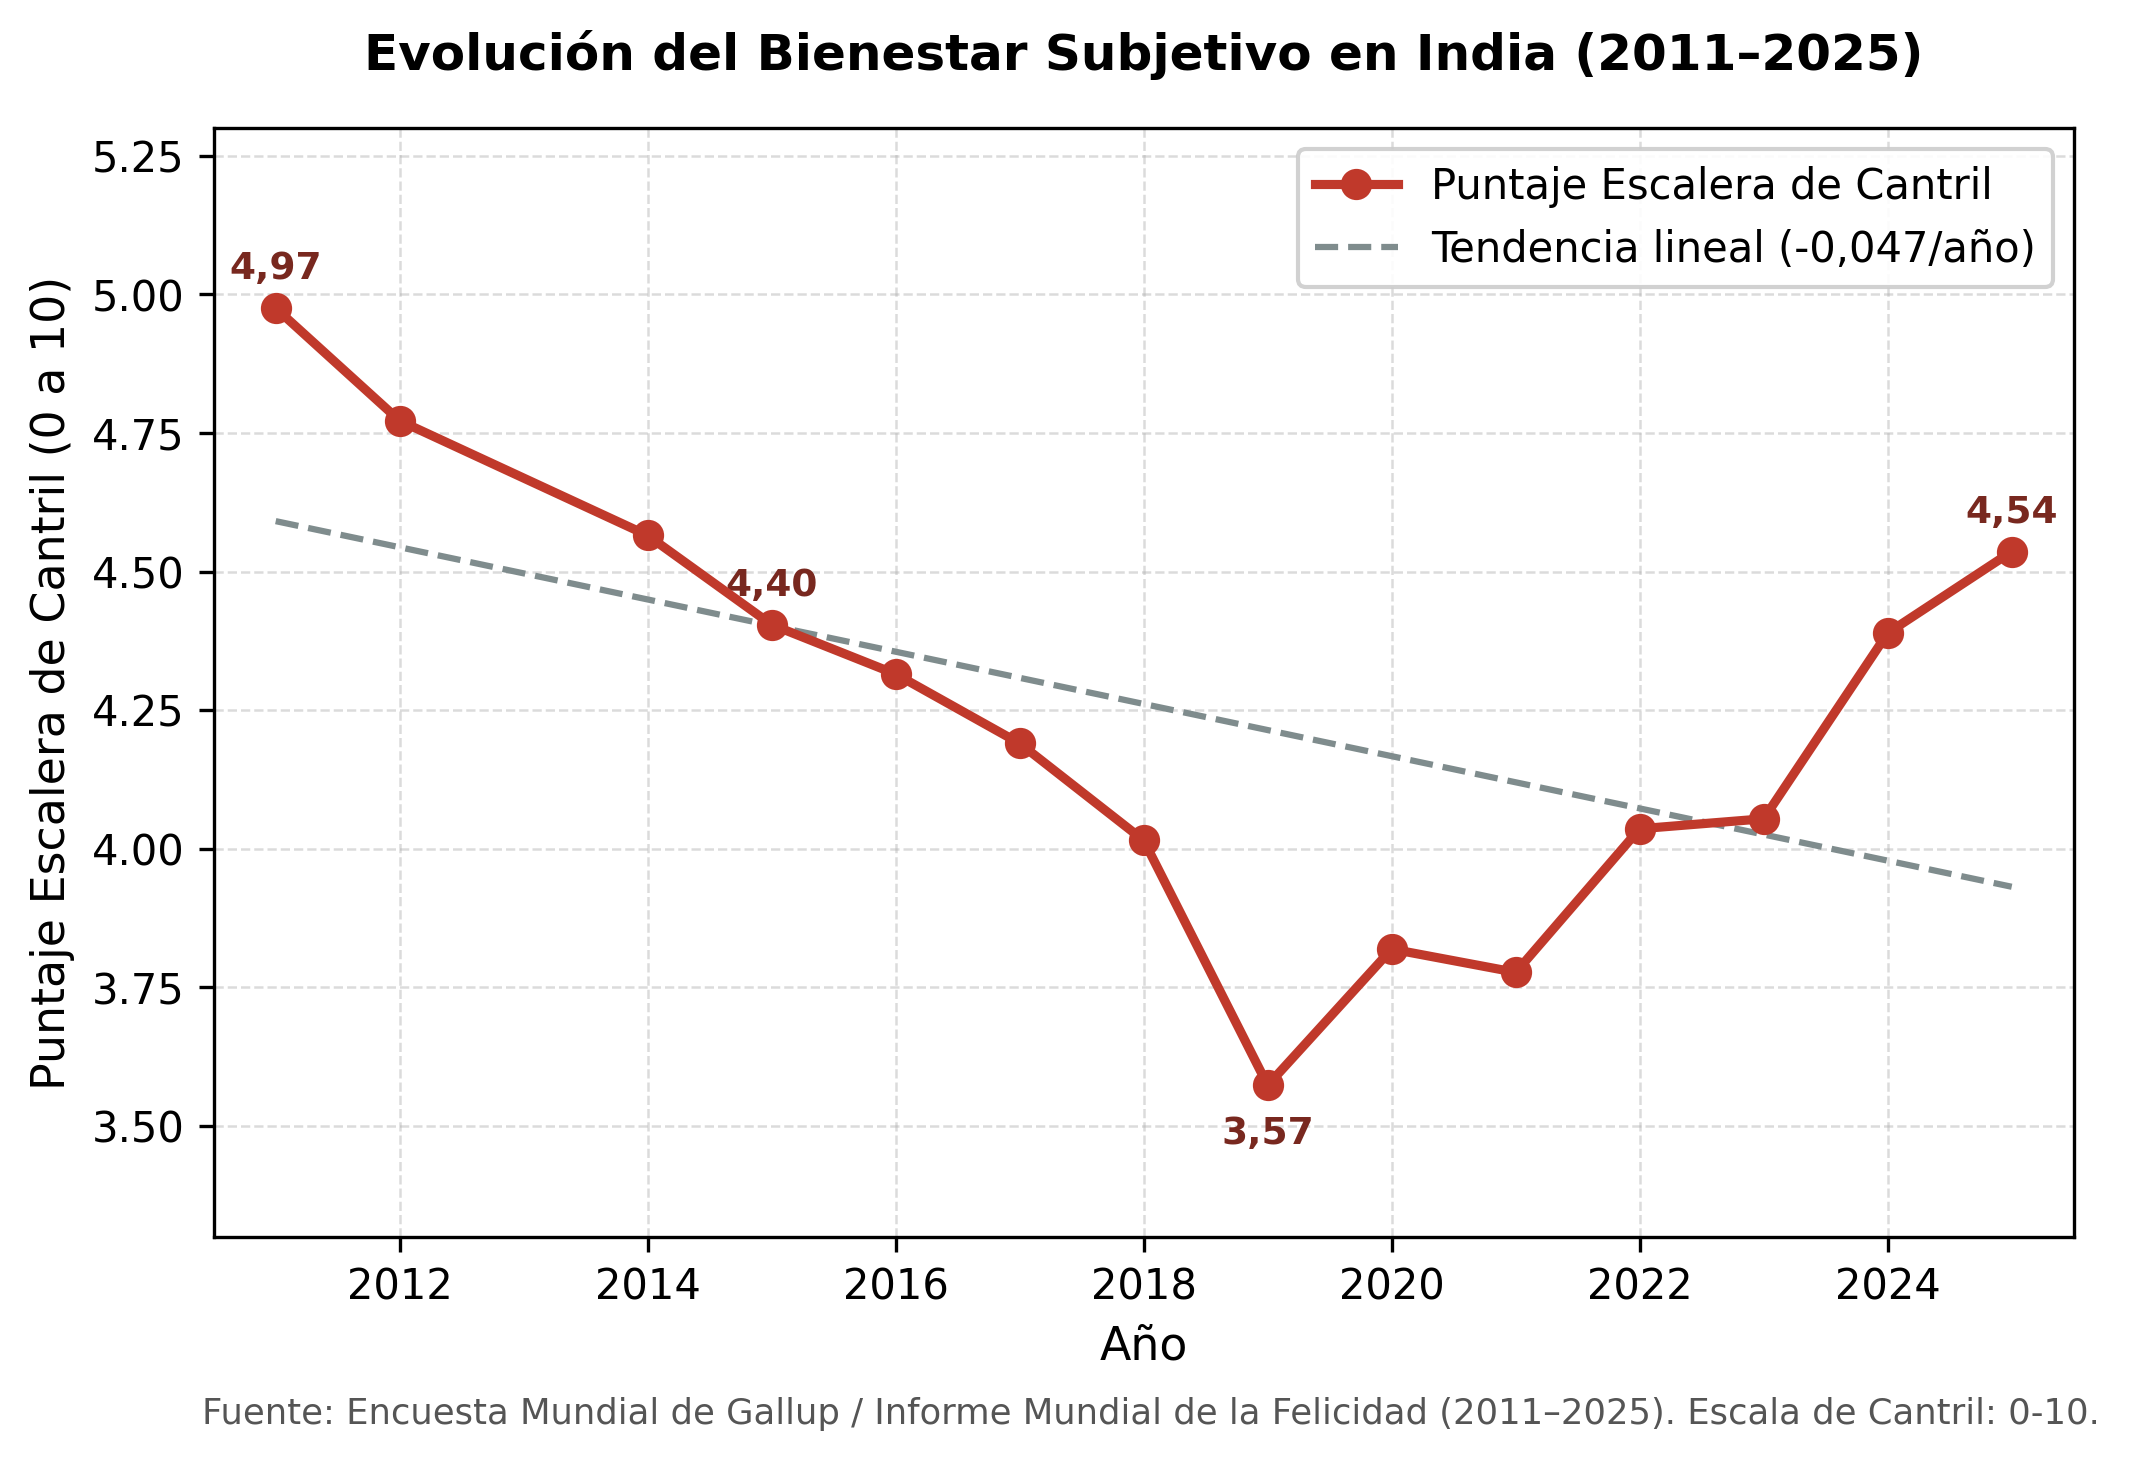
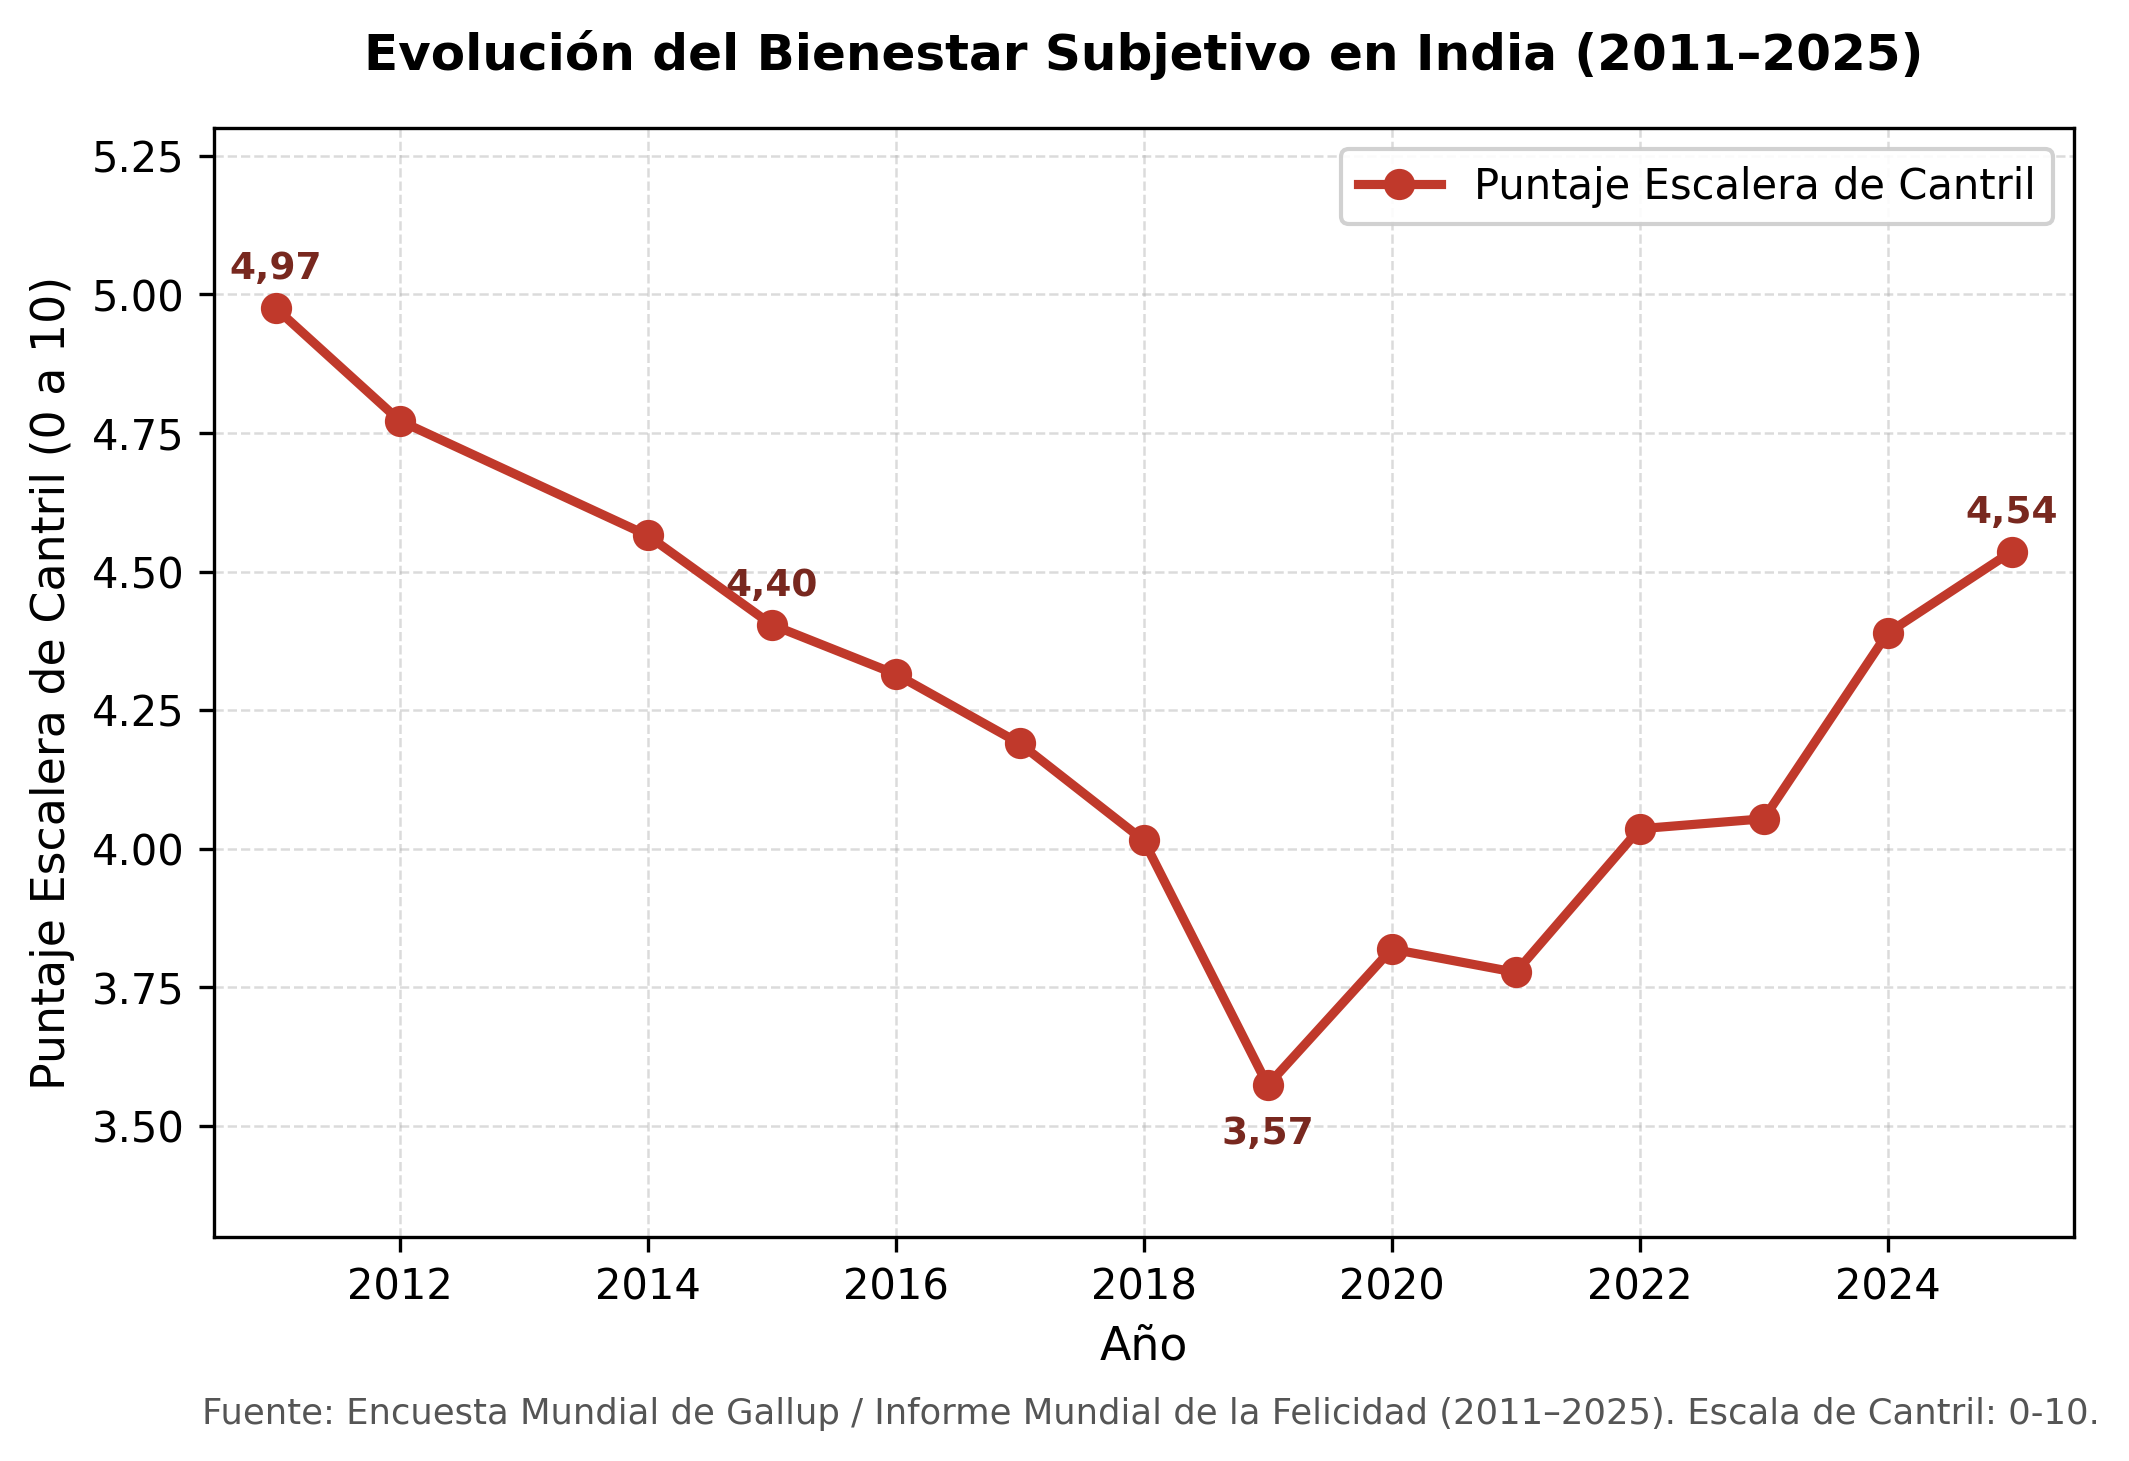
refactor(viz): remove trendline from India subjective well-being chart

diff --git a/src/plotting/generate_academic_charts.py b/src/plotting/generate_academic_charts.py
@@ -222,7 +222,7 @@ def plot_03_happiness_india_vs_usa(ind_data, usa_data, out_dir):
 
 def plot_04_happiness_india(ind_data, out_dir):
     """
-    Gráfico 4: FELICIDAD: INDIA (Serie individual con tendencia)
+    Gráfico 4: FELICIDAD: INDIA (Serie individual de bienestar subjetivo)
     """
     ind_valid = [(d['year'], d['ladder']) for d in ind_data if d['ladder'] is not None]
     
@@ -233,14 +233,6 @@ def plot_04_happiness_india(ind_data, out_dir):
     
     ax.plot(years, scores, color=STYLE['IND']['color'], marker=STYLE['IND']['marker'], 
             markersize=6.5, label='Puntaje Escalera de Cantril', zorder=4)
-    
-    # Línea de tendencia lineal en gris neutro
-    if len(years) > 1:
-        z = np.polyfit(years, scores, 1)
-        p = np.poly1d(z)
-        slope_str = f"{z[0]:+.3f}".replace('.', ',')
-        ax.plot(years, p(years), color=STYLE['NEUTRAL']['subtle_line'], linestyle='--', 
-                linewidth=1.5, label=f'Tendencia lineal ({slope_str}/año)', zorder=3)
         
     for y, s in zip(years, scores):
         if y in [2011, 2015, 2019, 2025]:
